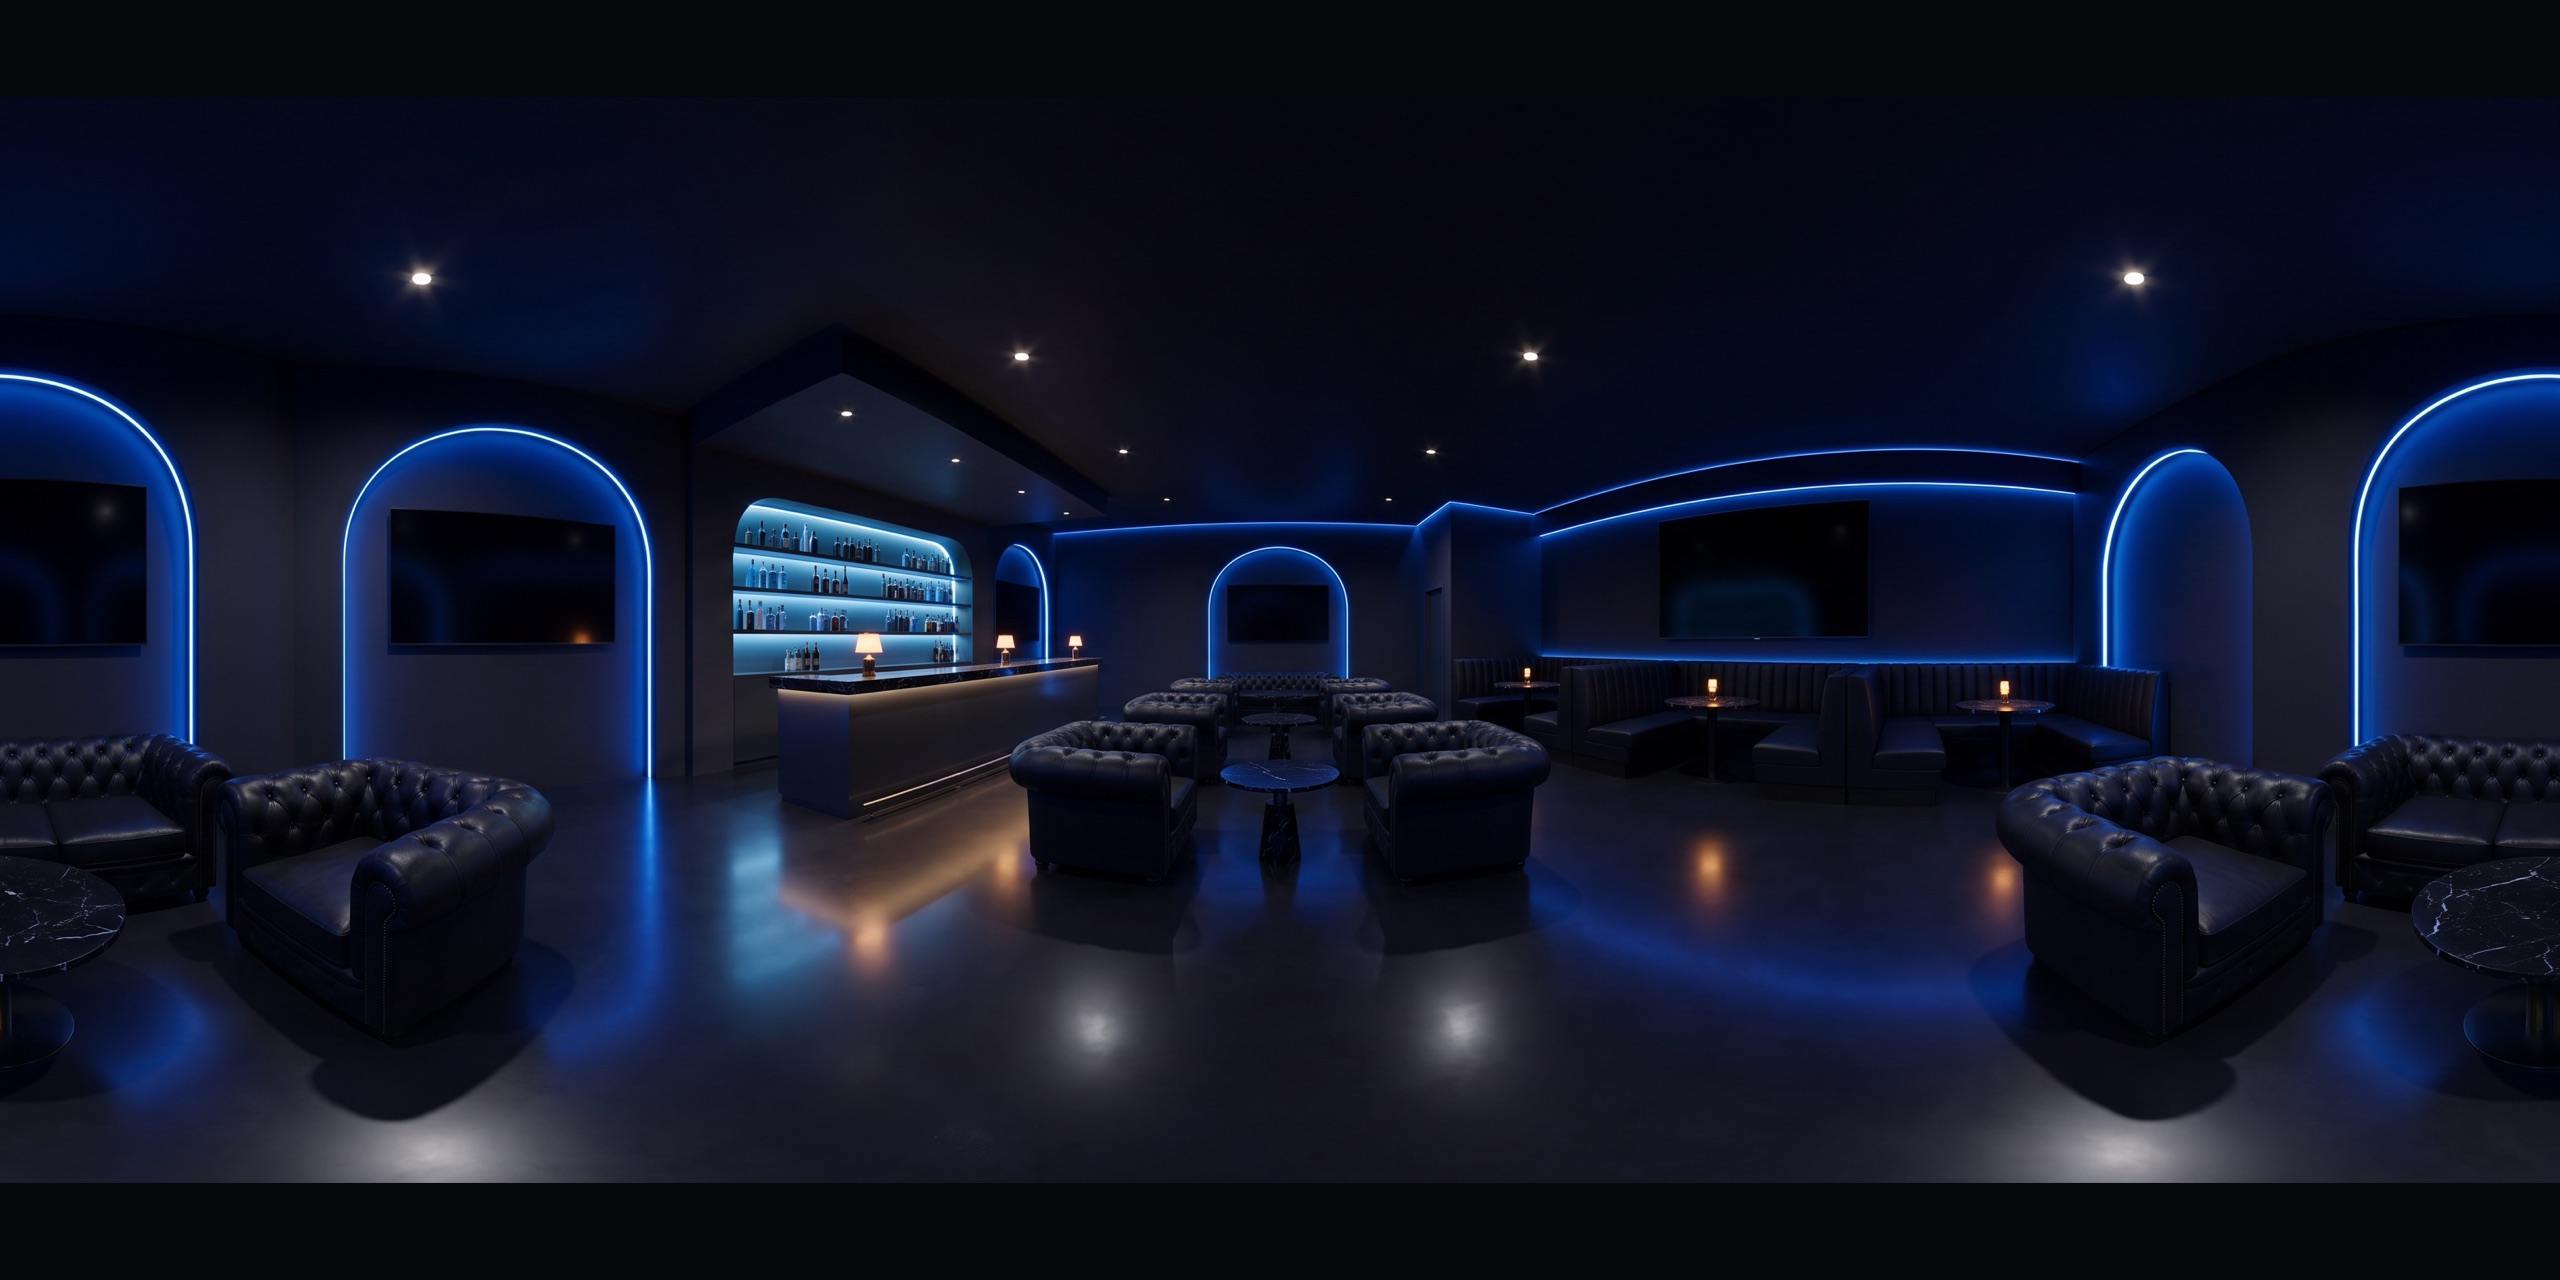
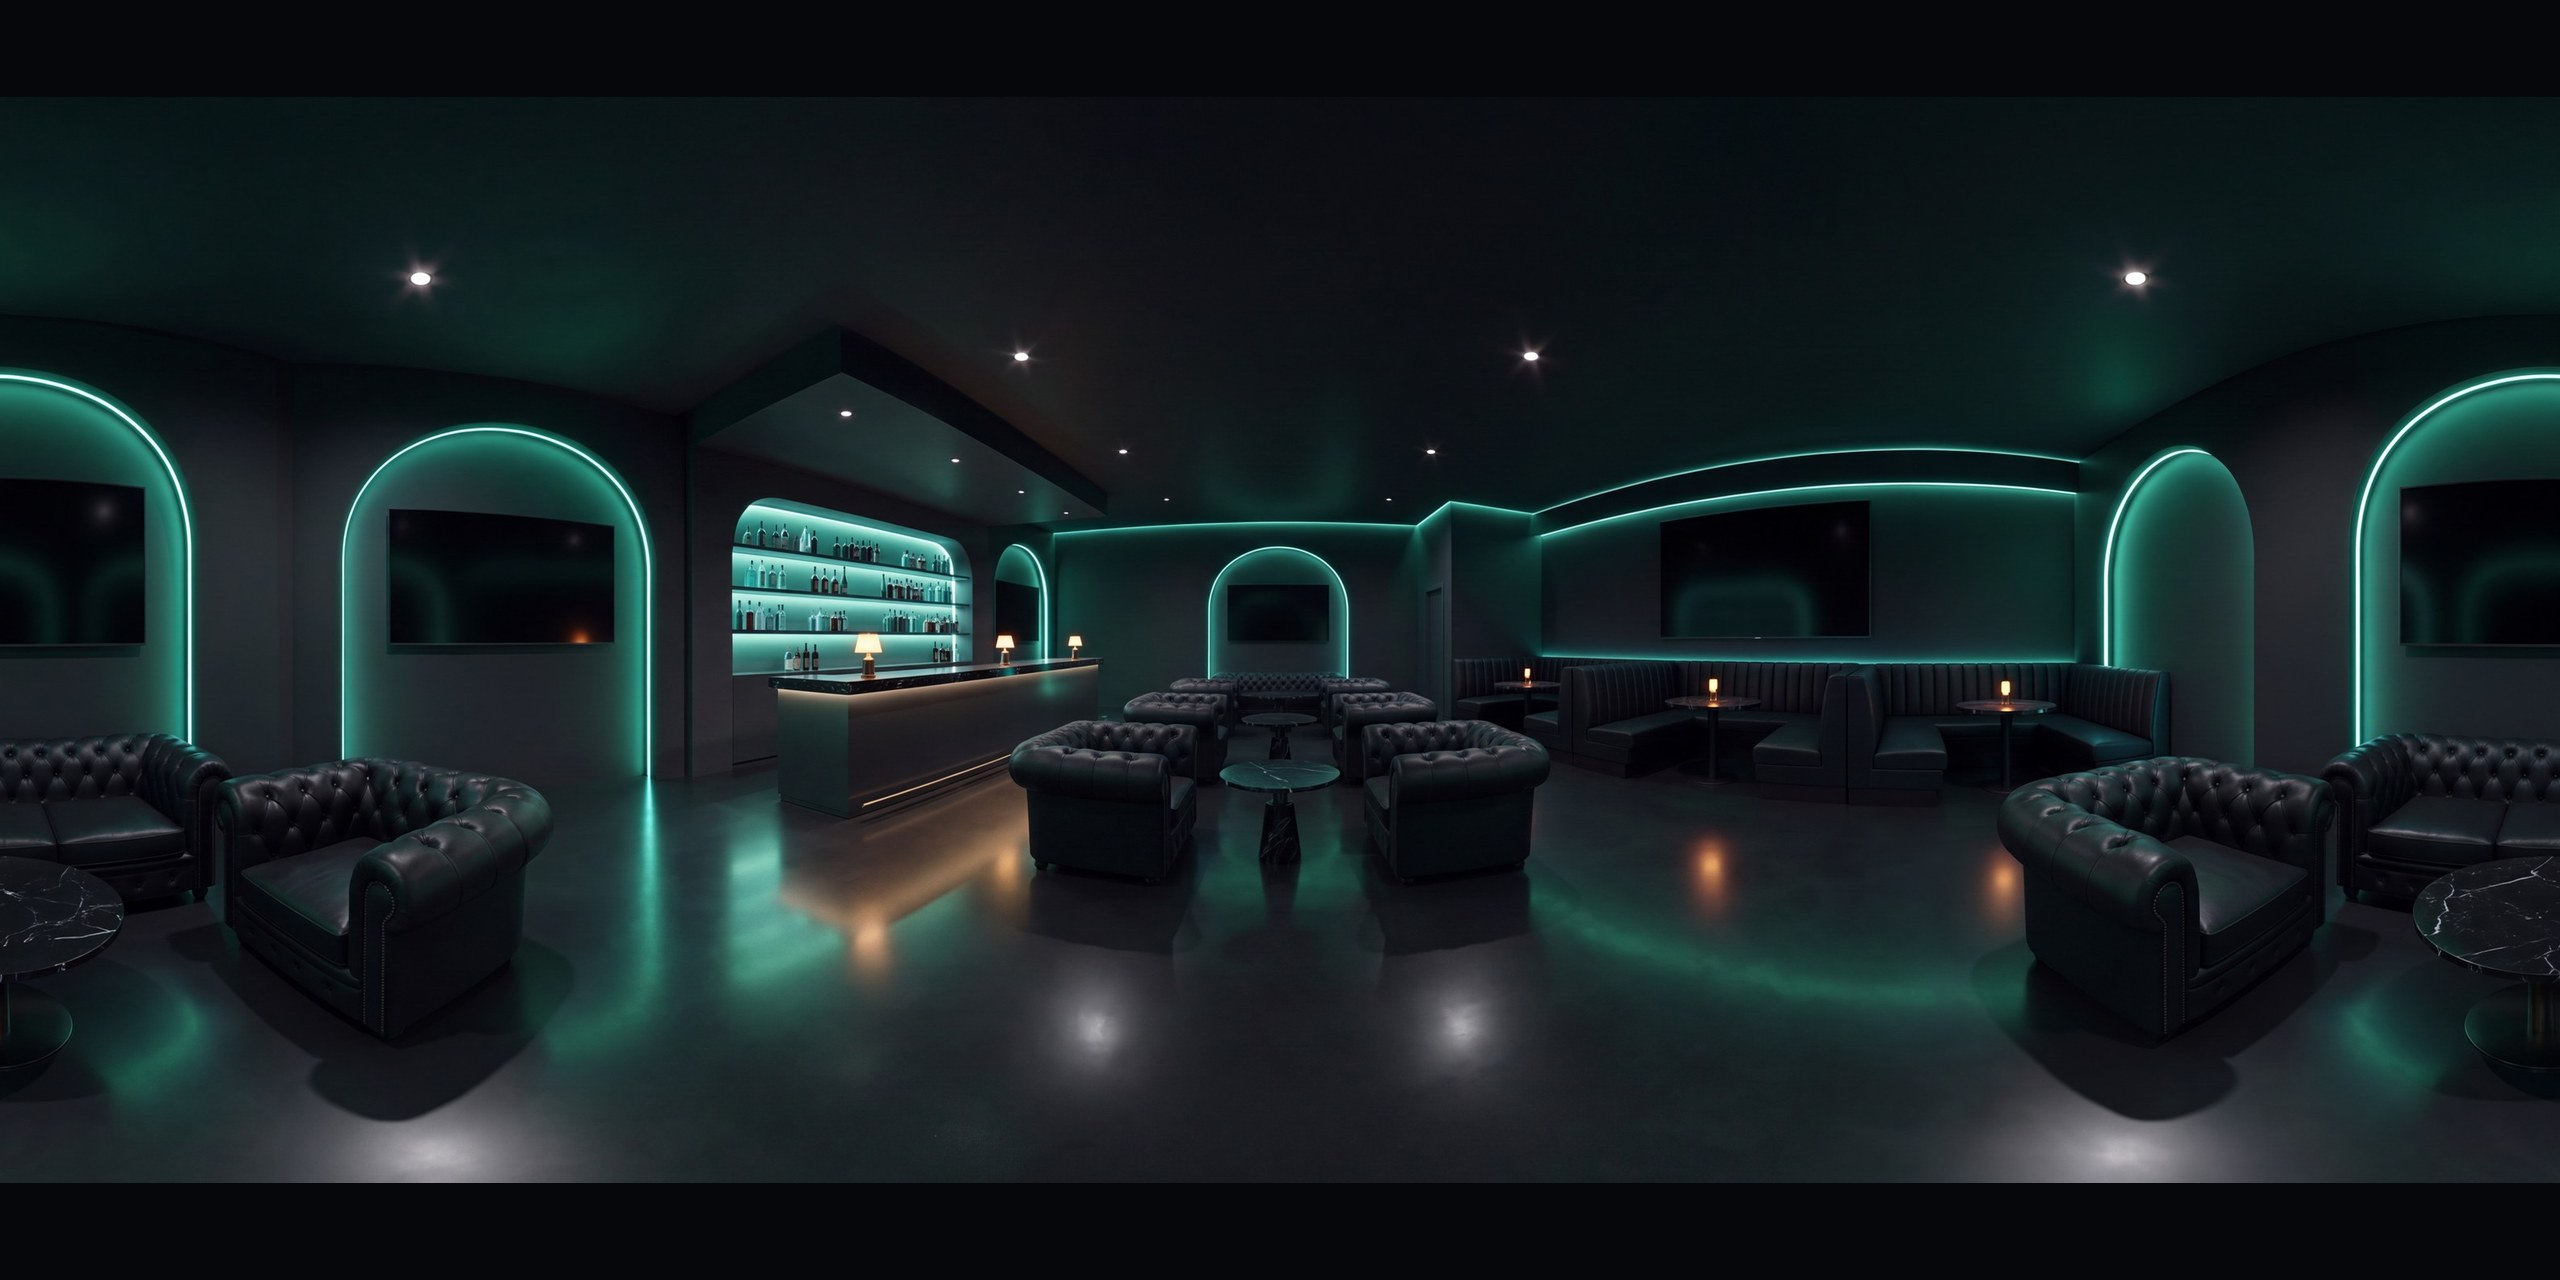
Ambiente da sinuca no tom da marca e desktop sem o glow atrás do jogo
O bar 360° da sinuca agora usa a versão da marca (tabela White Label).
No desktop saiu a elipse colorida desfocada atrás da coluna do jogo.

diff --git a/index.html b/index.html
@@ -13,11 +13,11 @@
 <link rel="preconnect" href="https://fonts.googleapis.com">
 <link rel="preconnect" href="https://fonts.gstatic.com" crossorigin>
 <link rel="stylesheet" href="https://fonts.googleapis.com/css2?family=Inter:wght@400;500;600;700&family=Sora:wght@600;700;800&display=swap">
-<link rel="stylesheet" href="css/tokens.css?v=jon-10272324">
-<link rel="stylesheet" href="css/ui.css?v=jon-10272324">
-<link rel="stylesheet" href="css/screens.css?v=jon-10272324">
-<link rel="stylesheet" href="css/game.css?v=jon-10272324">
-<link rel="stylesheet" href="css/desk.css?v=jon-10272324">
+<link rel="stylesheet" href="css/tokens.css?v=jon-10280010">
+<link rel="stylesheet" href="css/ui.css?v=jon-10280010">
+<link rel="stylesheet" href="css/screens.css?v=jon-10280010">
+<link rel="stylesheet" href="css/game.css?v=jon-10280010">
+<link rel="stylesheet" href="css/desk.css?v=jon-10280010">
 </head>
 <body>
 <svg width="0" height="0" style="position:absolute" aria-hidden="true">
@@ -73,15 +73,15 @@
   </div>
 </div></div>
 
-<script src="js/core.js?v=jon-10272324"></script>
-<script src="js/ui.js?v=jon-10272324"></script>
-<script src="js/screens.js?v=jon-10272324"></script>
-<script src="js/loja.js?v=jon-10272324"></script>
-<script src="js/social.js?v=jon-10272324"></script>
-<script src="js/battles.js?v=jon-10272324"></script>
-<script src="js/games.js?v=jon-10272324"></script>
-<script src="js/sinuca.js?v=jon-10272324"></script>
-<script src="js/desk.js?v=jon-10272324"></script>
-<script src="js/boot.js?v=jon-10272324"></script>
+<script src="js/core.js?v=jon-10280010"></script>
+<script src="js/ui.js?v=jon-10280010"></script>
+<script src="js/screens.js?v=jon-10280010"></script>
+<script src="js/loja.js?v=jon-10280010"></script>
+<script src="js/social.js?v=jon-10280010"></script>
+<script src="js/battles.js?v=jon-10280010"></script>
+<script src="js/games.js?v=jon-10280010"></script>
+<script src="js/sinuca.js?v=jon-10280010"></script>
+<script src="js/desk.js?v=jon-10280010"></script>
+<script src="js/boot.js?v=jon-10280010"></script>
 </body>
 </html>

diff --git a/js/sinuca.js b/js/sinuca.js
@@ -10,7 +10,7 @@ function startSinuca(tableId) {
   const q = new URLSearchParams({nick: ST.nick, crew: ST.crew, g: ST.g, opp: OPP.n, mesa: tableId, q: '0'});
   const w = document.createElement('section');
   w.className = 'scr sinuca-scr'; w.id = 'sinucaWrap';
-  w.innerHTML = `<iframe id="sinucaFrame" title="Sinuca · Bola 8" allow="autoplay; fullscreen" src="sinuca/index.html?v=jon-10272324#embed=${ST.stake}&${q}"></iframe>`;
+  w.innerHTML = `<iframe id="sinucaFrame" title="Sinuca · Bola 8" allow="autoplay; fullscreen" src="sinuca/index.html?v=jon-10280010#embed=${ST.stake}&${q}"></iframe>`;
   closeSheet(); closeNotifs(); pauseViewVideos();
   $('#view').hidden = true; $('#scr-game').hidden = true;
   $('#app').appendChild(w);

diff --git a/css/desk.css b/css/desk.css
@@ -8,7 +8,6 @@ body.dk.dk-ob{--dkl:0px;--dkr:0px}
 
 /* ---------- coluna 9:16 ---------- */
 body.dk .stage-wrap{inset:var(--dkh) var(--dkr) 0 var(--dkl)}
-body.dk .stage-wrap::before{content:"";position:absolute;left:50%;top:50%;width:min(880px,90%);height:80%;transform:translate(-50%,-50%);border-radius:50%;background:var(--dk-gc);filter:blur(120px);opacity:.14;pointer-events:none;transition:background .4s}
 body.dk .phone{width:396px;height:704px;border-radius:24px;box-shadow:0 0 0 1px var(--border-default),0 0 0 2px #ffffff0a,0 32px 80px var(--shadow-strong)}
 body.dk .status{display:none}
 /* o header e a navbar da tela saem da coluna: viram o header e o menu do desktop */
